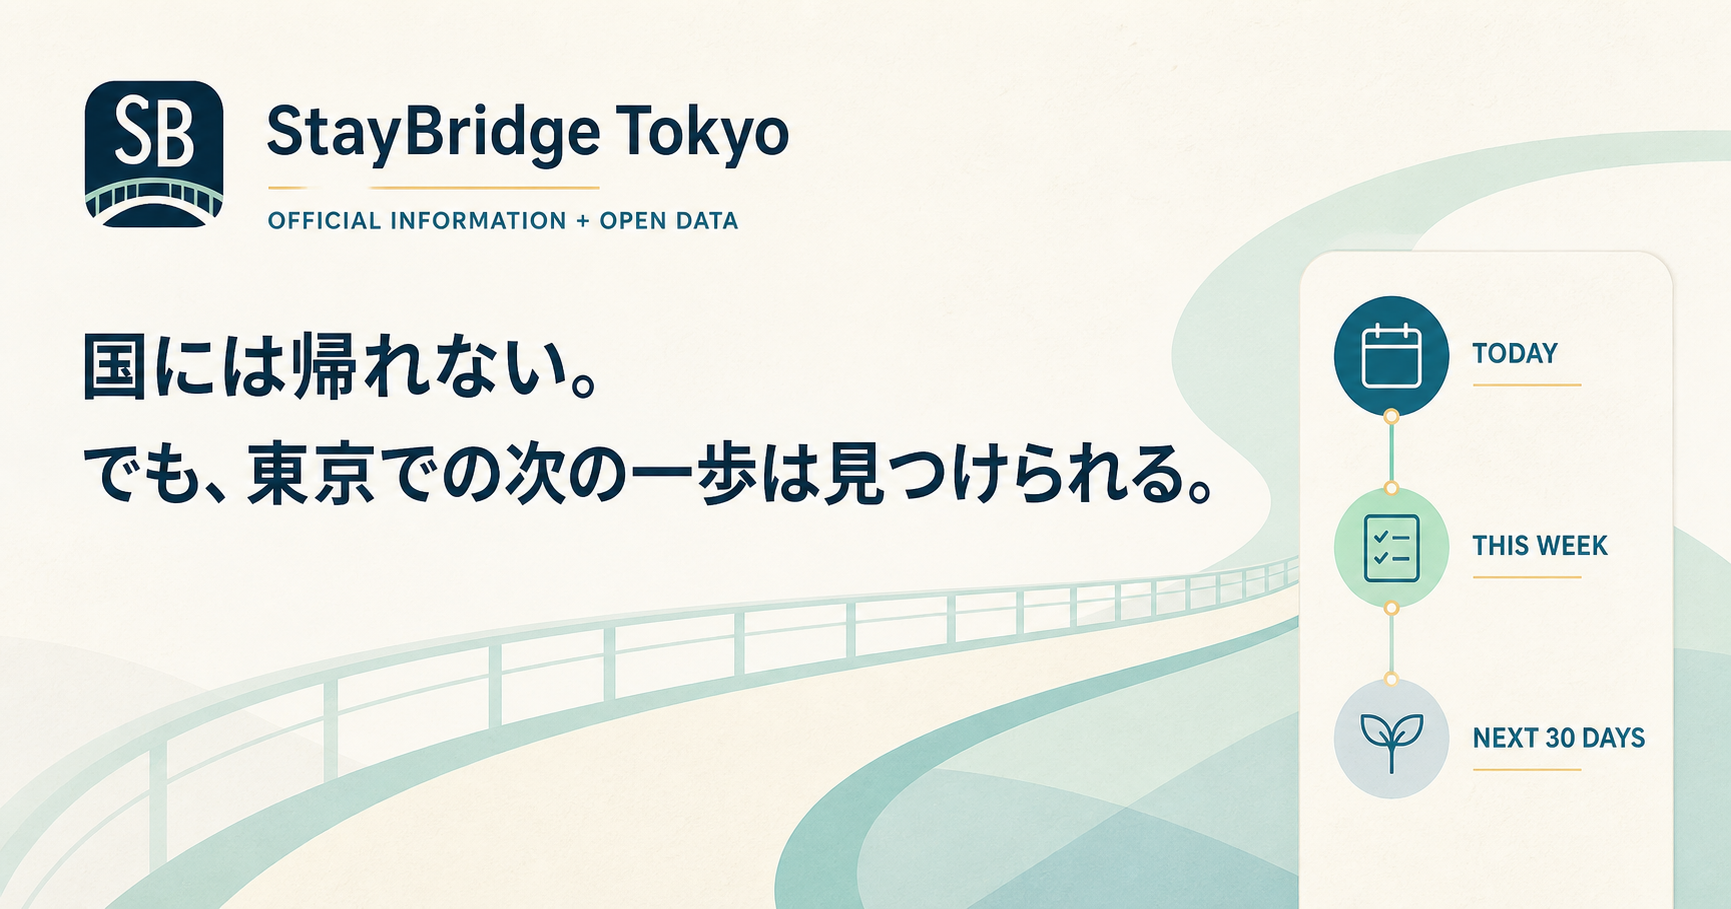
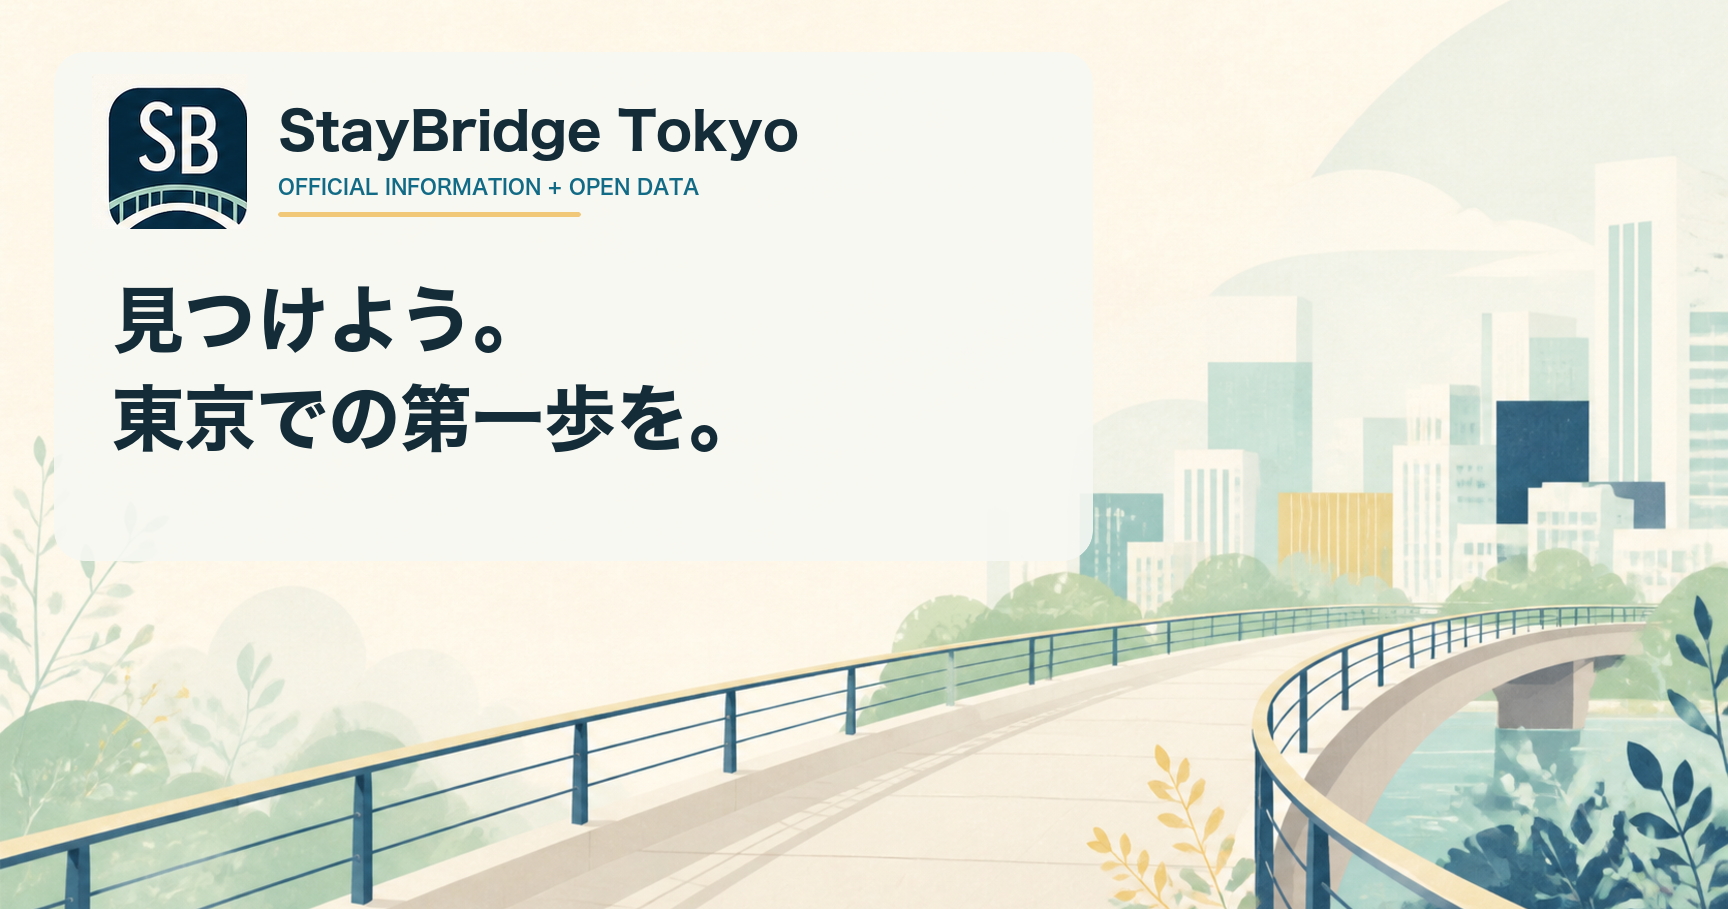
feat(user): refresh first-step tagline and social preview

diff --git a/apps/user/app/layout.tsx b/apps/user/app/layout.tsx
@@ -31,6 +31,7 @@ function resolveSiteUrl(requestHeaders: Pick<Headers, "get">): URL | undefined {
 export async function generateMetadata(): Promise<Metadata> {
   const siteUrl = resolveSiteUrl(await headers());
   const imageUrl = siteUrl ? new URL("/og.png", siteUrl).toString() : undefined;
+  const tagline = "見つけよう。東京での第一歩を。";
 
   return {
     metadataBase: siteUrl,
@@ -39,17 +40,17 @@ export async function generateMetadata(): Promise<Metadata> {
       template: "%s | StayBridge Tokyo",
     },
     description:
-      "Official information and open data, organized into the next steps for people unexpectedly unable to return home from Tokyo.",
+      `${tagline} Official information and open data, organized into practical next steps for people unexpectedly staying in Tokyo.`,
     openGraph: {
-      title: "StayBridge Tokyo",
-      description: "国には帰れない。でも、東京での次の一歩は見つけられる。",
+      title: `${tagline} | StayBridge Tokyo`,
+      description: tagline,
       type: "website",
-      images: imageUrl ? [{ url: imageUrl, width: 1728, height: 909, alt: "StayBridge Tokyo — 次の一歩を時間軸で示す生活再建ナビゲーション" }] : undefined,
+      images: imageUrl ? [{ url: imageUrl, width: 1728, height: 909, alt: `${tagline} StayBridge Tokyo` }] : undefined,
     },
     twitter: {
       card: "summary_large_image",
-      title: "StayBridge Tokyo",
-      description: "国には帰れない。でも、東京での次の一歩は見つけられる。",
+      title: `${tagline} | StayBridge Tokyo`,
+      description: tagline,
       images: imageUrl ? [imageUrl] : undefined,
     },
   };

diff --git a/packages/i18n/src/client.ts b/packages/i18n/src/client.ts
@@ -37,7 +37,7 @@ export const jaMessages = {
   metadata: { label: "Japanese", nativeLabel: "日本語", contentStatus: "reviewed", updatedAt: "2026-08-22", internalReview: { status: "reviewed", reviewedAt: "2026-08-22", reviewedBy: "StayBridge team" }, expertReview: { status: "pending" } },
   ui: {
     skip: "本文へ移動", navSteps: "わたしのステップ", brandToSteps: "わたしのステップへ戻る", navLocal: "近くの支援", navHelp: "相談先", crisis: "行政・支援者向け Preparedness View",
-    eyebrow: "東京で、予定外に生活を続けることになった方へ", hero: "国には帰れない。\nでも、東京での次の一歩は見つけられる。",
+    eyebrow: "東京で、予定外に生活を続けることになった方へ", hero: "見つけよう。\n東京での第一歩を。",
     intro: "帰国する予定だったのに、母国の状況が変わって帰ることが難しくなった方へ。今の状況に合わせて、東京で当面生活するために確認したいことを整理します。",
     start: "今の状況を確認する", demo: "デモの状況を読み込む", noLogin: "登録不要", noAddress: "正確な住所は不要", official: "公式情報につなぐ",
     notDecision: "在留資格や法律上の判断は行いません", privacyTitle: "答えるのは、次の行動に必要なことだけです",
